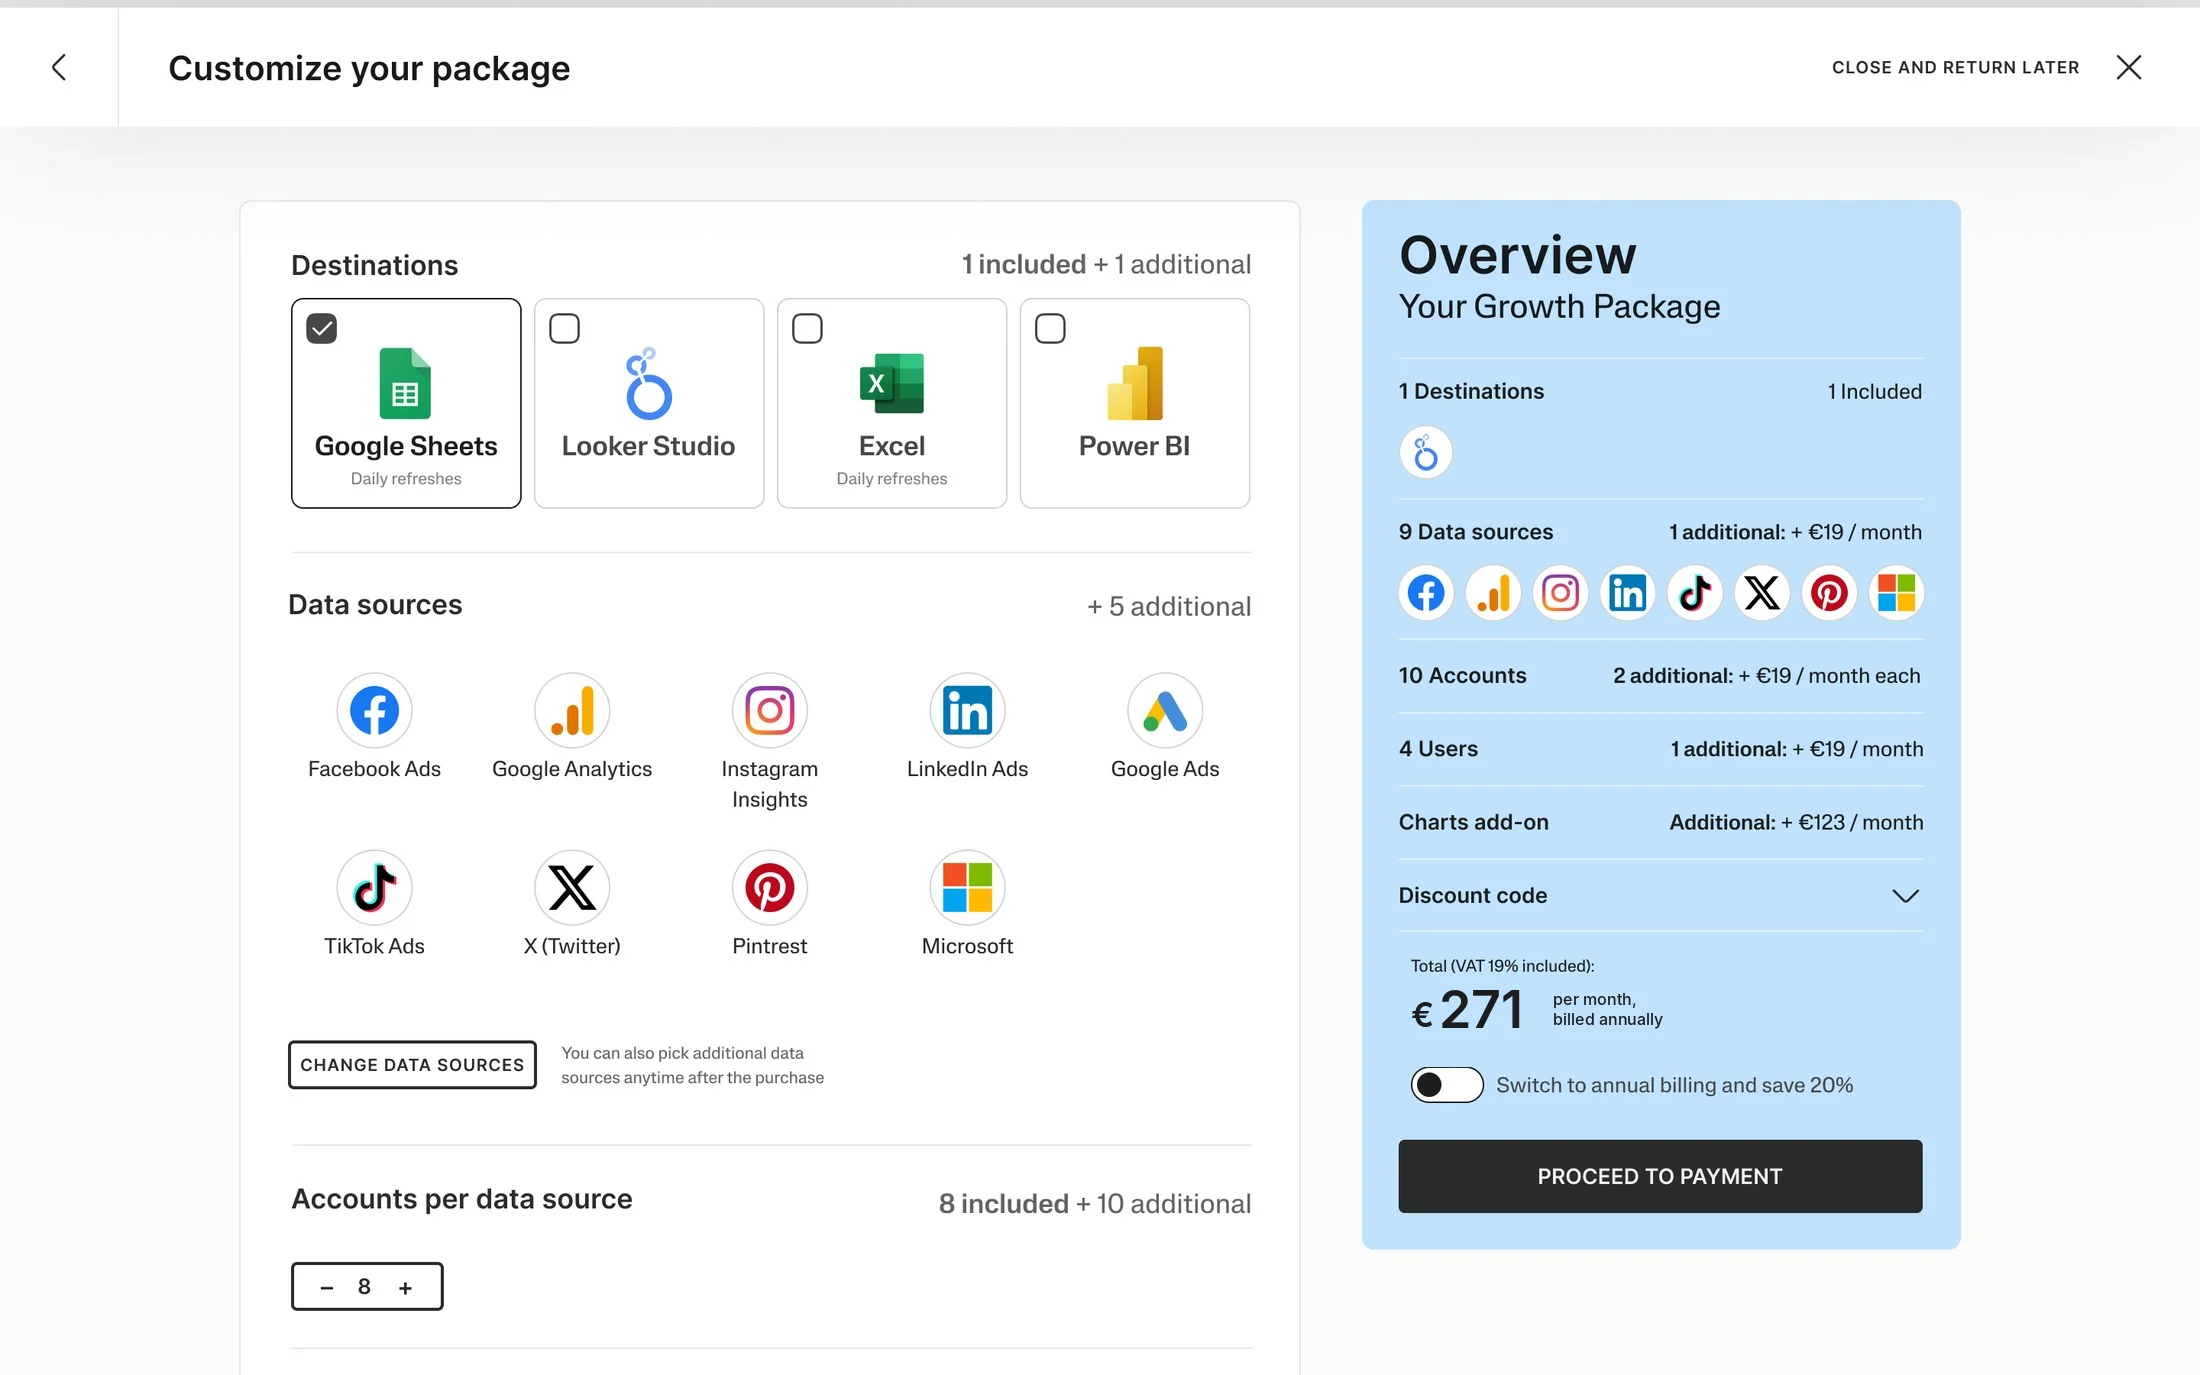
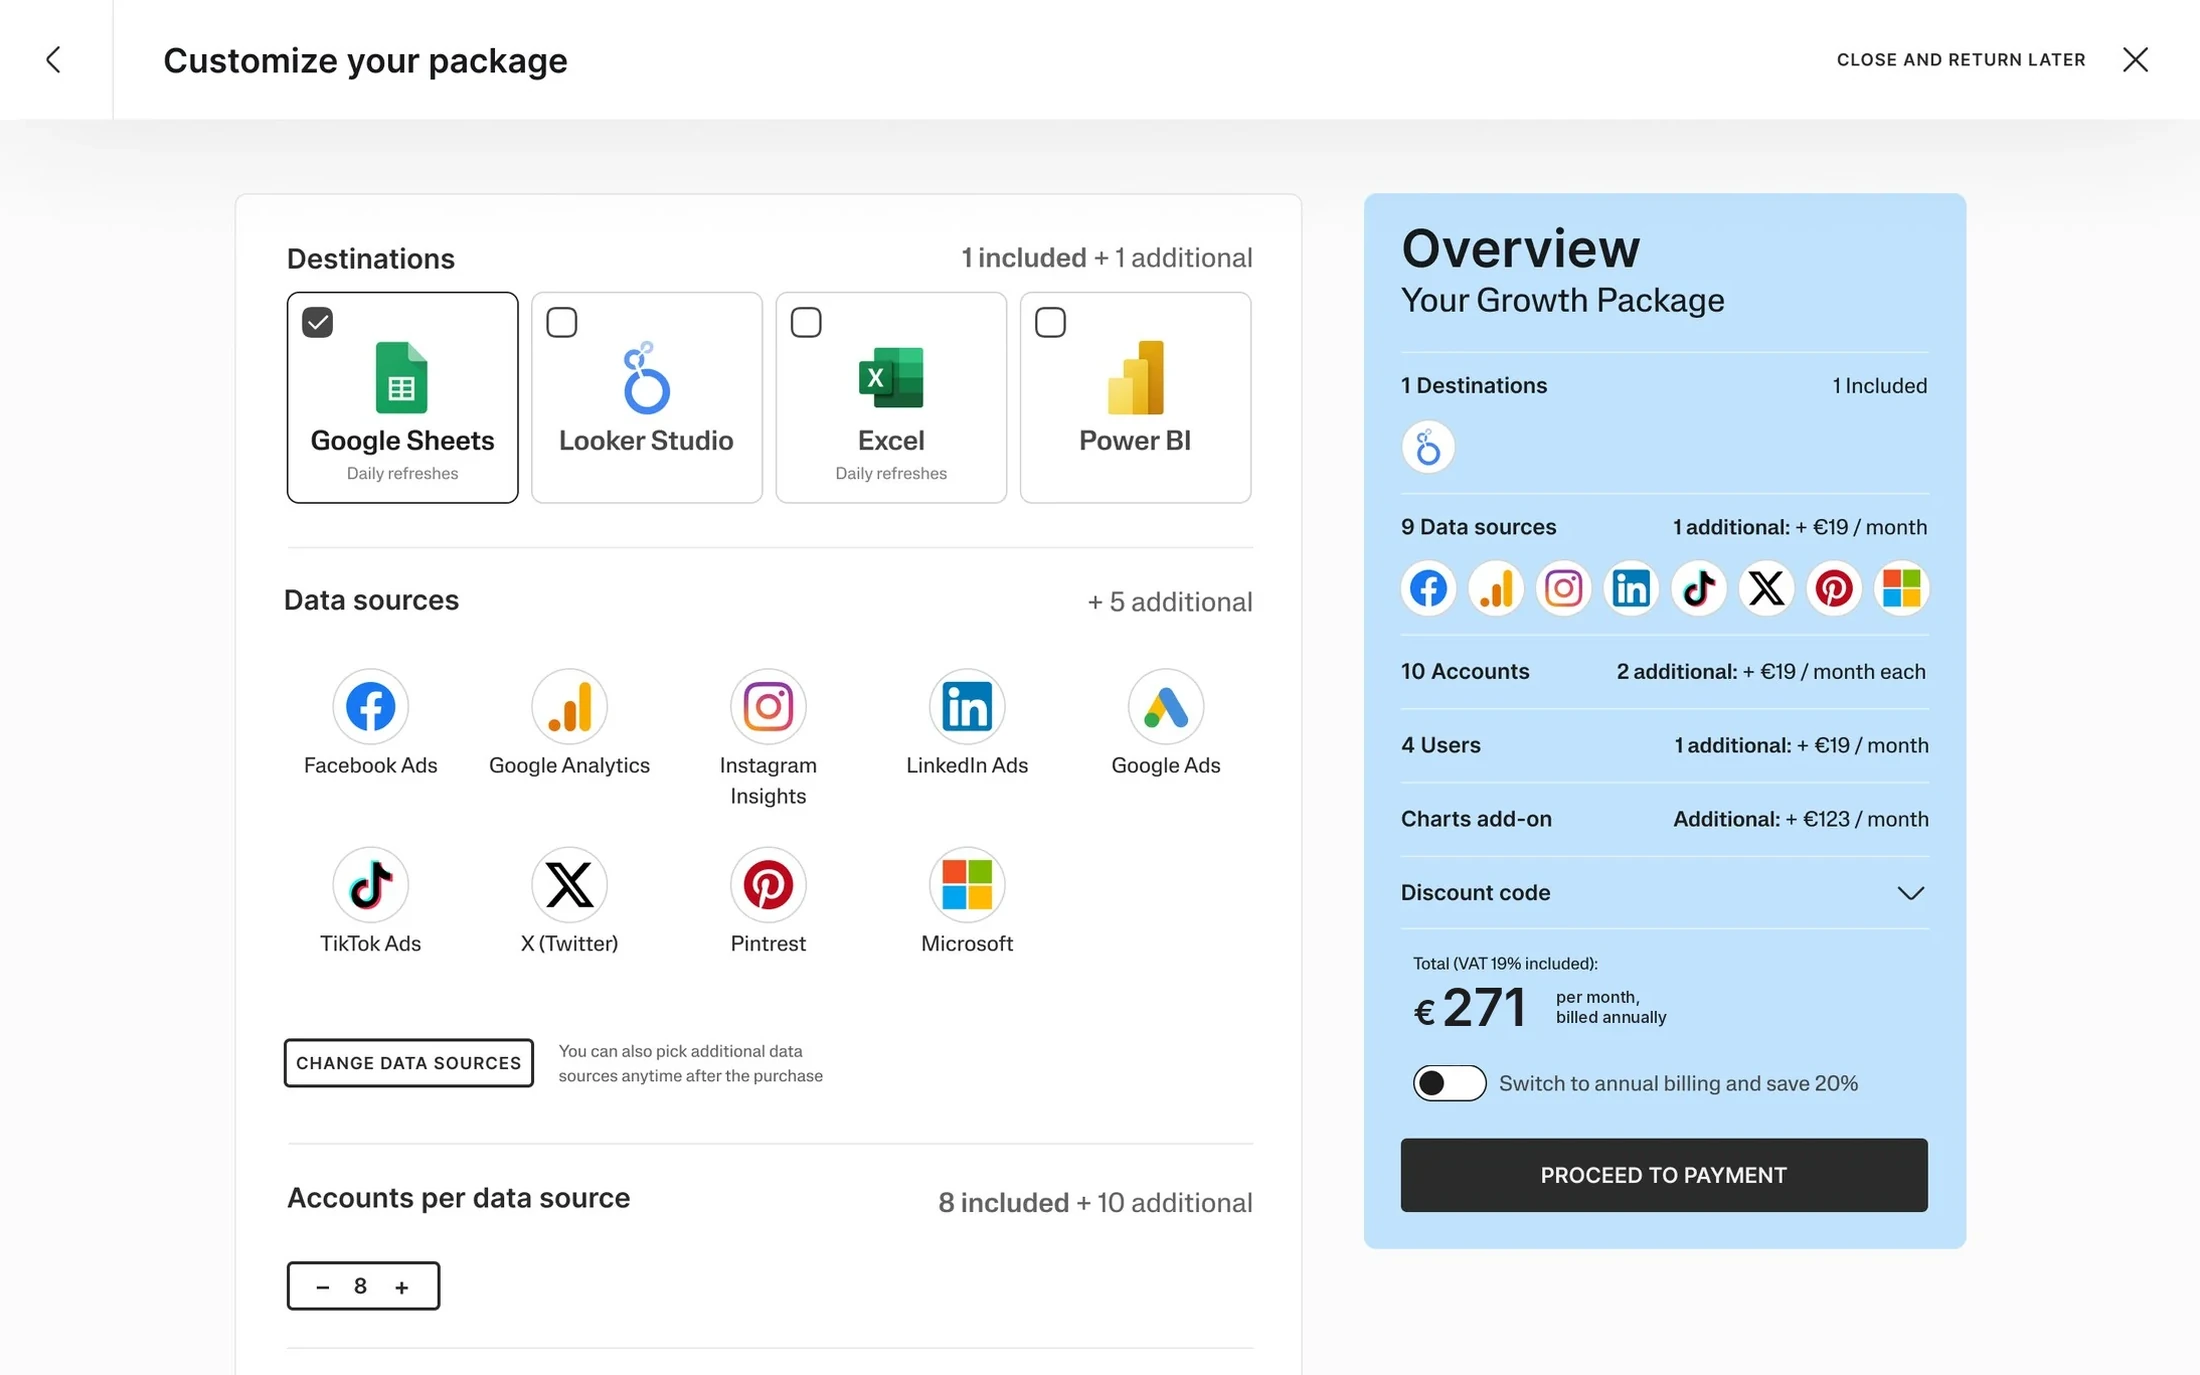
Pricing walkthrough: TikTok fills the empty slot, confetti, no menu bar
- Data sources pop-up starts with one empty slot and 4/5 selected; the
  click on TikTok Ads highlights the tile, adds the tick and fills the slot
- Purchase confirmation bursts with confetti
- Menu bar removed for an even frame; grey bands trimmed from the screens

Claude-Session: https://claude.ai/code/session_01KXnjDh72uQzYPN4BMXmEj2

diff --git a/supermetrics-purchase.html b/supermetrics-purchase.html
@@ -863,6 +863,31 @@ main > section > .figure > .dk { margin-left: 0 !important; margin-right: auto !
 .hs-hint svg { width: 16px; height: 16px; animation: hs-nudge 1.6s ease-in-out infinite; }
 @keyframes hs-nudge { 0%, 100% { transform: none; } 50% { transform: translateX(4px); } }
 @media (prefers-reduced-motion: reduce) { .hs-hint svg { animation: none; } }
+
+/* Walkthrough: no menu bar, an even frame round the window */
+.dk__menubar { display: none !important; }
+.dk { padding-top: 40px !important; }
+@media (max-width: 760px) { .dk { padding-top: 16px !important; } }
+.dk__view { container-type: inline-size; }
+/* Data sources pop-up: one empty slot, then TikTok Ads is picked and fills it */
+.dsm { position: absolute; display: block; pointer-events: none; }
+.dsm-hl { left: 47.1%; top: 39.01%; width: 14.28%; height: 7.24%; border-radius: 0.5cqw; background: rgba(61, 107, 255, 0.07); box-shadow: inset 0 0 0 0.16cqw #3D6BFF; opacity: 0; transform: scale(0.97); transition: opacity 0.35s ease, transform 0.45s cubic-bezier(0.22, 1, 0.36, 1); }
+.dsm-tick { left: 58.67%; top: 41.26%; width: 1.91%; height: 2.9%; background: #FCFBFC; transition: opacity 0.3s ease 0.12s; }
+.dsm-slot { left: 64.3%; top: 29.03%; width: 4.83%; height: 6.6%; background: #FFFFFF; transition: opacity 0.35s ease 0.2s; }
+.dsm-slot i { position: absolute; left: 8.5%; top: 14.5%; width: 64.6%; height: 74.4%; border-radius: 50%; border: 0.12cqw dashed #CFCFD2; box-sizing: border-box; background: #FCFCFC; }
+.dsm-ring { left: 64.71%; top: 29.99%; width: 3.12%; height: 4.91%; border-radius: 50%; box-shadow: 0 0 0 0.25cqw rgba(61, 107, 255, 0.85); opacity: 0; transform: scale(0.8); transition: opacity 0.3s ease 0.25s, transform 0.5s cubic-bezier(0.22, 1, 0.36, 1) 0.25s; }
+.dsm-count { left: 69.53%; top: 75.7%; width: 6.64%; height: 3.7%; background: #FFFFFF; transition: opacity 0.3s ease 0.2s; }
+.dsm-count::after { content: "4/5 selected"; position: absolute; right: 7%; top: 50%; transform: translateY(-50%); font: 400 1.08cqw/1 -apple-system, BlinkMacSystemFont, "Inter", "Helvetica Neue", sans-serif; color: #3A3A3C; white-space: nowrap; }
+.dk__page.is-c1 .dsm-hl { opacity: 1; transform: none; }
+.dk__page.is-c1 .dsm-tick, .dk__page.is-c1 .dsm-slot, .dk__page.is-c1 .dsm-count { opacity: 0; }
+.dk__page.is-c1 .dsm-ring { opacity: 1; transform: none; animation: dsm-pulse 1.2s ease 0.6s both; }
+@keyframes dsm-pulse { 0% { opacity: 1; } 100% { opacity: 0; transform: scale(1.35); } }
+/* Purchase confirmed: confetti */
+.dk-cf { position: absolute; left: 50%; top: 44%; width: 0; height: 0; pointer-events: none; }
+.dk-cf > i { position: absolute; left: 0; top: 0; width: var(--w, 0.9cqw); height: var(--h, 0.5cqw); margin: -0.25cqw; border-radius: var(--rad, 1px); background: var(--c); opacity: 0; }
+.dk__page.is-burst .dk-cf > i { animation: dk-cf 1.6s cubic-bezier(0.15, 0.6, 0.3, 1) var(--d, 0ms) both; }
+@keyframes dk-cf { 0% { opacity: 1; transform: translate(0, 0) rotate(0) scale(0.6); } 70% { opacity: 1; } 100% { opacity: 0; transform: translate(var(--dx), calc(var(--dy) + 14cqw)) rotate(var(--r)) scale(1); } }
+@media (prefers-reduced-motion: reduce) { .dk-cf { display: none; } }
 </style>
 </head>
 <body class="project">
@@ -887,7 +912,7 @@ main > section > .figure > .dk { margin-left: 0 !important; margin-right: auto !
 
 
     <section class="row grid" data-reveal aria-labelledby="impact"><h2 class="label mask" id="impact"><span>Impact</span></h2><div class="body body--lead fade"><h3 class="sec-lead">Self-serve buying grew ARR by 22%.</h3></div><div class="stats"><div class="stat"><p class="stat__num"><span data-count="22">0</span>%</p><p class="stat__label">increase in ARR</p></div><div class="stat"><p class="stat__num"><span data-count="70">0</span>%</p><p class="stat__label">uplift in new customers</p></div><div class="stat"><p class="stat__num"><span data-count="28">0</span>%</p><p class="stat__label">fewer support tickets</p></div></div>
-    <figure class="figure fade" style="--d:.15"><div class="dk" data-desk><div class="dk__menubar"><span class="dk__apple"></span><b>Chrome</b><span>File</span><span>Edit</span><span>View</span><span class="dk__clock">9:41</span></div><div class="dk__win"><div class="dk__chrome"><span class="dk__dots"><i></i><i></i><i></i></span><span class="dk__url">hub.supermetrics.com / purchase</span><button class="dk__play" type="button" aria-label="Pause walkthrough"><svg class="dk__i-pause" viewBox="0 0 16 16" aria-hidden="true"><rect x="4" y="3" width="3" height="10" rx="1"/><rect x="9" y="3" width="3" height="10" rx="1"/></svg><svg class="dk__i-play" viewBox="0 0 16 16" aria-hidden="true"><path d="M5 3.5v9l7.5-4.5z"/></svg></button></div><div class="dk__view" role="img" aria-label="A customer buying Supermetrics in the hub: choosing the Growth package, picking data sources, adding a discount code and paying"><div class="dk__page" data-clicks="0.39,0.475"><img class="dk__img" src="assets/img/smv-packages.webp" alt="" decoding="async"></div><div class="dk__page" data-clicks="0.185,0.645"><img class="dk__img" src="assets/img/smv-customise.webp" alt="" decoding="async"></div><div class="dk__page" data-clicks="0.52,0.432;0.797,0.776"><img class="dk__img" src="assets/img/smv-datasources-modal.webp" alt="" decoding="async"></div><div class="dk__page" data-clicks="0.80,0.65"><img class="dk__img" src="assets/img/smv-addons.webp" alt="" decoding="async"></div><div class="dk__page" data-clicks="0.843,0.696"><img class="dk__img" src="assets/img/smv-discount.webp" alt="" decoding="async"></div><div class="dk__page" data-clicks="0.756,0.909"><img class="dk__img" src="assets/img/smv-payment.webp" alt="" decoding="async"></div><div class="dk__page" data-clicks=""><img class="dk__img" src="assets/img/smv-thanks.webp" alt="" decoding="async"></div><span class="dk__cursor" aria-hidden="true"><svg viewBox="0 0 16 22"><path d="M1.5 1.5v16.2l4.3-4.1 2.9 6.6 2.6-1.1-2.9-6.5 6.1-.2z" fill="#111" stroke="#fff" stroke-width="1.3" stroke-linejoin="round"/></svg><i class="dk__ripple"></i></span></div></div></div></figure></section>
+    <figure class="figure fade" style="--d:.15"><div class="dk" data-desk><div class="dk__menubar"><span class="dk__apple"></span><b>Chrome</b><span>File</span><span>Edit</span><span>View</span><span class="dk__clock">9:41</span></div><div class="dk__win"><div class="dk__chrome"><span class="dk__dots"><i></i><i></i><i></i></span><span class="dk__url">hub.supermetrics.com / purchase</span><button class="dk__play" type="button" aria-label="Pause walkthrough"><svg class="dk__i-pause" viewBox="0 0 16 16" aria-hidden="true"><rect x="4" y="3" width="3" height="10" rx="1"/><rect x="9" y="3" width="3" height="10" rx="1"/></svg><svg class="dk__i-play" viewBox="0 0 16 16" aria-hidden="true"><path d="M5 3.5v9l7.5-4.5z"/></svg></button></div><div class="dk__view" role="img" aria-label="A customer buying Supermetrics in the hub: choosing the Growth package, picking data sources, adding a discount code and paying"><div class="dk__page" data-clicks="0.39,0.475"><img class="dk__img" src="assets/img/smv-packages.webp" alt="" decoding="async"></div><div class="dk__page" data-clicks="0.185,0.645"><img class="dk__img" src="assets/img/smv-customise.webp" alt="" decoding="async"></div><div class="dk__page" data-clicks="0.52,0.432;0.797,0.776"><img class="dk__img" src="assets/img/smv-datasources-modal.webp" alt="" decoding="async"><i class="dsm dsm-hl"></i><i class="dsm dsm-tick"></i><span class="dsm dsm-slot"><i></i></span><i class="dsm dsm-ring"></i><i class="dsm dsm-count"></i></div><div class="dk__page" data-clicks="0.80,0.65"><img class="dk__img" src="assets/img/smv-addons.webp" alt="" decoding="async"></div><div class="dk__page" data-clicks="0.843,0.696"><img class="dk__img" src="assets/img/smv-discount.webp" alt="" decoding="async"></div><div class="dk__page" data-clicks="0.756,0.909"><img class="dk__img" src="assets/img/smv-payment.webp" alt="" decoding="async"></div><div class="dk__page" data-clicks="" data-burst><img class="dk__img" src="assets/img/smv-thanks.webp" alt="" decoding="async"><i class="dk-cf"></i></div><span class="dk__cursor" aria-hidden="true"><svg viewBox="0 0 16 22"><path d="M1.5 1.5v16.2l4.3-4.1 2.9 6.6 2.6-1.1-2.9-6.5 6.1-.2z" fill="#111" stroke="#fff" stroke-width="1.3" stroke-linejoin="round"/></svg><i class="dk__ripple"></i></span></div></div></div></figure></section>
     <section class="row grid" data-reveal aria-labelledby="s1"><h2 class="label mask" id="s1"><span>The problem</span></h2><div class="body fade"><h3 class="sec-lead">Buying Supermetrics was complex, rigid and sales-led.</h3><p>The existing flow held customers back in three ways.</p><ul class="list"><li>Choosing a product was complex, and customers were unsure which data sources they needed</li><li>It was inflexible, limited to a single destination with awkward upgrade paths</li><li>It leaned heavily on sales, keeping customers in a sales-led journey</li></ul></div>
     <figure class="figure fade" style="--d:.15"><div class="shot shot--video"><video class="oldvid" src="assets/img/sm-old-flow.mp4" poster="assets/img/sm-old-flow.webp" muted loop playsinline controls preload="metadata" aria-label="Screen recording of the old destination purchase flow, from choosing a team through buying a single destination"></video></div></figure></section>
     <section class="row grid" data-reveal aria-labelledby="s2"><h2 class="label mask" id="s2"><span>Research</span></h2><div class="body fade"><h3 class="sec-lead">Customers wanted flexible packages and prices they could see.</h3><p>Mapping the current destination purchase flows showed the disjointed system could not support the new model. We expected customers to prefer packages for their flexibility, customisation and fairer pricing, but knew unclear pricing or hidden value could put new customers off.</p><p>I interviewed ten customers across segments and analysed the sessions with affinity mapping and Vertex AI.</p><ul class="list"><li>Customers liked being able to customise packages, and valued TikTok access in the first two tiers</li><li>Every customer was willing to buy at the prices shown. Two needed a business case to move up a tier, and agencies valued the middle tier&#x27;s higher limits</li><li>The data source picker caused confusion, from its category patterns to a search bar that was not always visible</li><li>Six of ten knew of useful features they could not reach in self-serve or trial</li></ul></div>
@@ -1172,16 +1197,22 @@ main > section > .figure > .dk { margin-left: 0 !important; margin-right: auto !
       requestAnimationFrame(tick); });
     const moveTo = (x, y, ms) => { const [x0, y0] = pos; return clock(ms, (k) => { pos = [x0 + (x - x0) * k, y0 + (y - y0) * k]; cur.style.transform = `translate(${pos[0]}px, ${pos[1]}px)`; }); };
     const click = async () => { cur.classList.remove('is-down'); void cur.offsetWidth; cur.classList.add('is-down'); await clock(260); cur.classList.remove('is-down'); };
-    const show = (i) => pages.forEach((pg, k) => pg.classList.toggle('is-on', k === i));
+    const show = (i) => pages.forEach((pg, k) => {
+      pg.classList.toggle('is-on', k === i);
+      if (k === i) { pg.classList.remove('is-c1', 'is-c2', 'is-burst'); if (pg.hasAttribute('data-burst')) clock(250).then(() => pg.classList.add('is-burst')); }
+    });
     const run = async () => {
       for (;;) {
         for (let i = 0; i < pages.length; i++) {
           show(i); await clock(i ? 700 : 900);
           const cl = pages[i].dataset.clicks;
           if (!cl) { await clock(2200); continue; }
-          for (const c of cl.split(';')) {
-            const [fx, fy] = c.split(',').map(Number);
-            await moveTo(fx * view.clientWidth, fy * view.clientHeight, 1000); await clock(220); await click(); await clock(300);
+          const steps = cl.split(';');
+          for (let ci = 0; ci < steps.length; ci++) {
+            const [fx, fy] = steps[ci].split(',').map(Number);
+            await moveTo(fx * view.clientWidth, fy * view.clientHeight, 1000); await clock(220); await click();
+            pages[i].classList.add('is-c' + (ci + 1));
+            await clock(ci === 0 && pages[i].querySelector('.dsm') ? 1100 : 300);
           }
         }
       }
@@ -1191,6 +1222,27 @@ main > section > .figure > .dk { margin-left: 0 !important; margin-right: auto !
     if (reduce) { dk.classList.add('is-paused'); show(0); cur.style.display = 'none'; return; }
     const imgs = [...dk.querySelectorAll('img')];
     Promise.all(imgs.map((im) => (im.complete ? 0 : new Promise((r) => { im.onload = im.onerror = r; })))).then(run);
+  });
+})();
+</script>
+<script>
+/* Walkthrough: confetti for the purchase confirmation */
+(() => {
+  document.querySelectorAll('.dk-cf').forEach((box) => {
+    const cols = ['#4F6BFF', '#BDEDD3', '#FFB547', '#FF6B8B', '#1D2230', '#7FD1FF', '#C9B6FF'];
+    let seed = 11; const rnd = () => (seed = (seed * 9301 + 49297) % 233280) / 233280;
+    for (let k = 0; k < 56; k++) {
+      const i = document.createElement('i');
+      const ang = -Math.PI / 2 + (rnd() - 0.5) * Math.PI * 1.4, dist = 8 + rnd() * 16;
+      i.style.setProperty('--dx', (Math.cos(ang) * dist * 1.3).toFixed(2) + 'cqw');
+      i.style.setProperty('--dy', (Math.sin(ang) * dist).toFixed(2) + 'cqw');
+      i.style.setProperty('--r', Math.round((rnd() - 0.5) * 900) + 'deg');
+      i.style.setProperty('--c', cols[k % cols.length]);
+      i.style.setProperty('--d', Math.round(rnd() * 160) + 'ms');
+      if (k % 3 === 0) { i.style.setProperty('--w', '0.7cqw'); i.style.setProperty('--h', '0.7cqw'); i.style.setProperty('--rad', '50%'); }
+      else if (k % 3 === 1) { i.style.setProperty('--w', '0.45cqw'); i.style.setProperty('--h', '1.2cqw'); }
+      box.appendChild(i);
+    }
   });
 })();
 </script>
